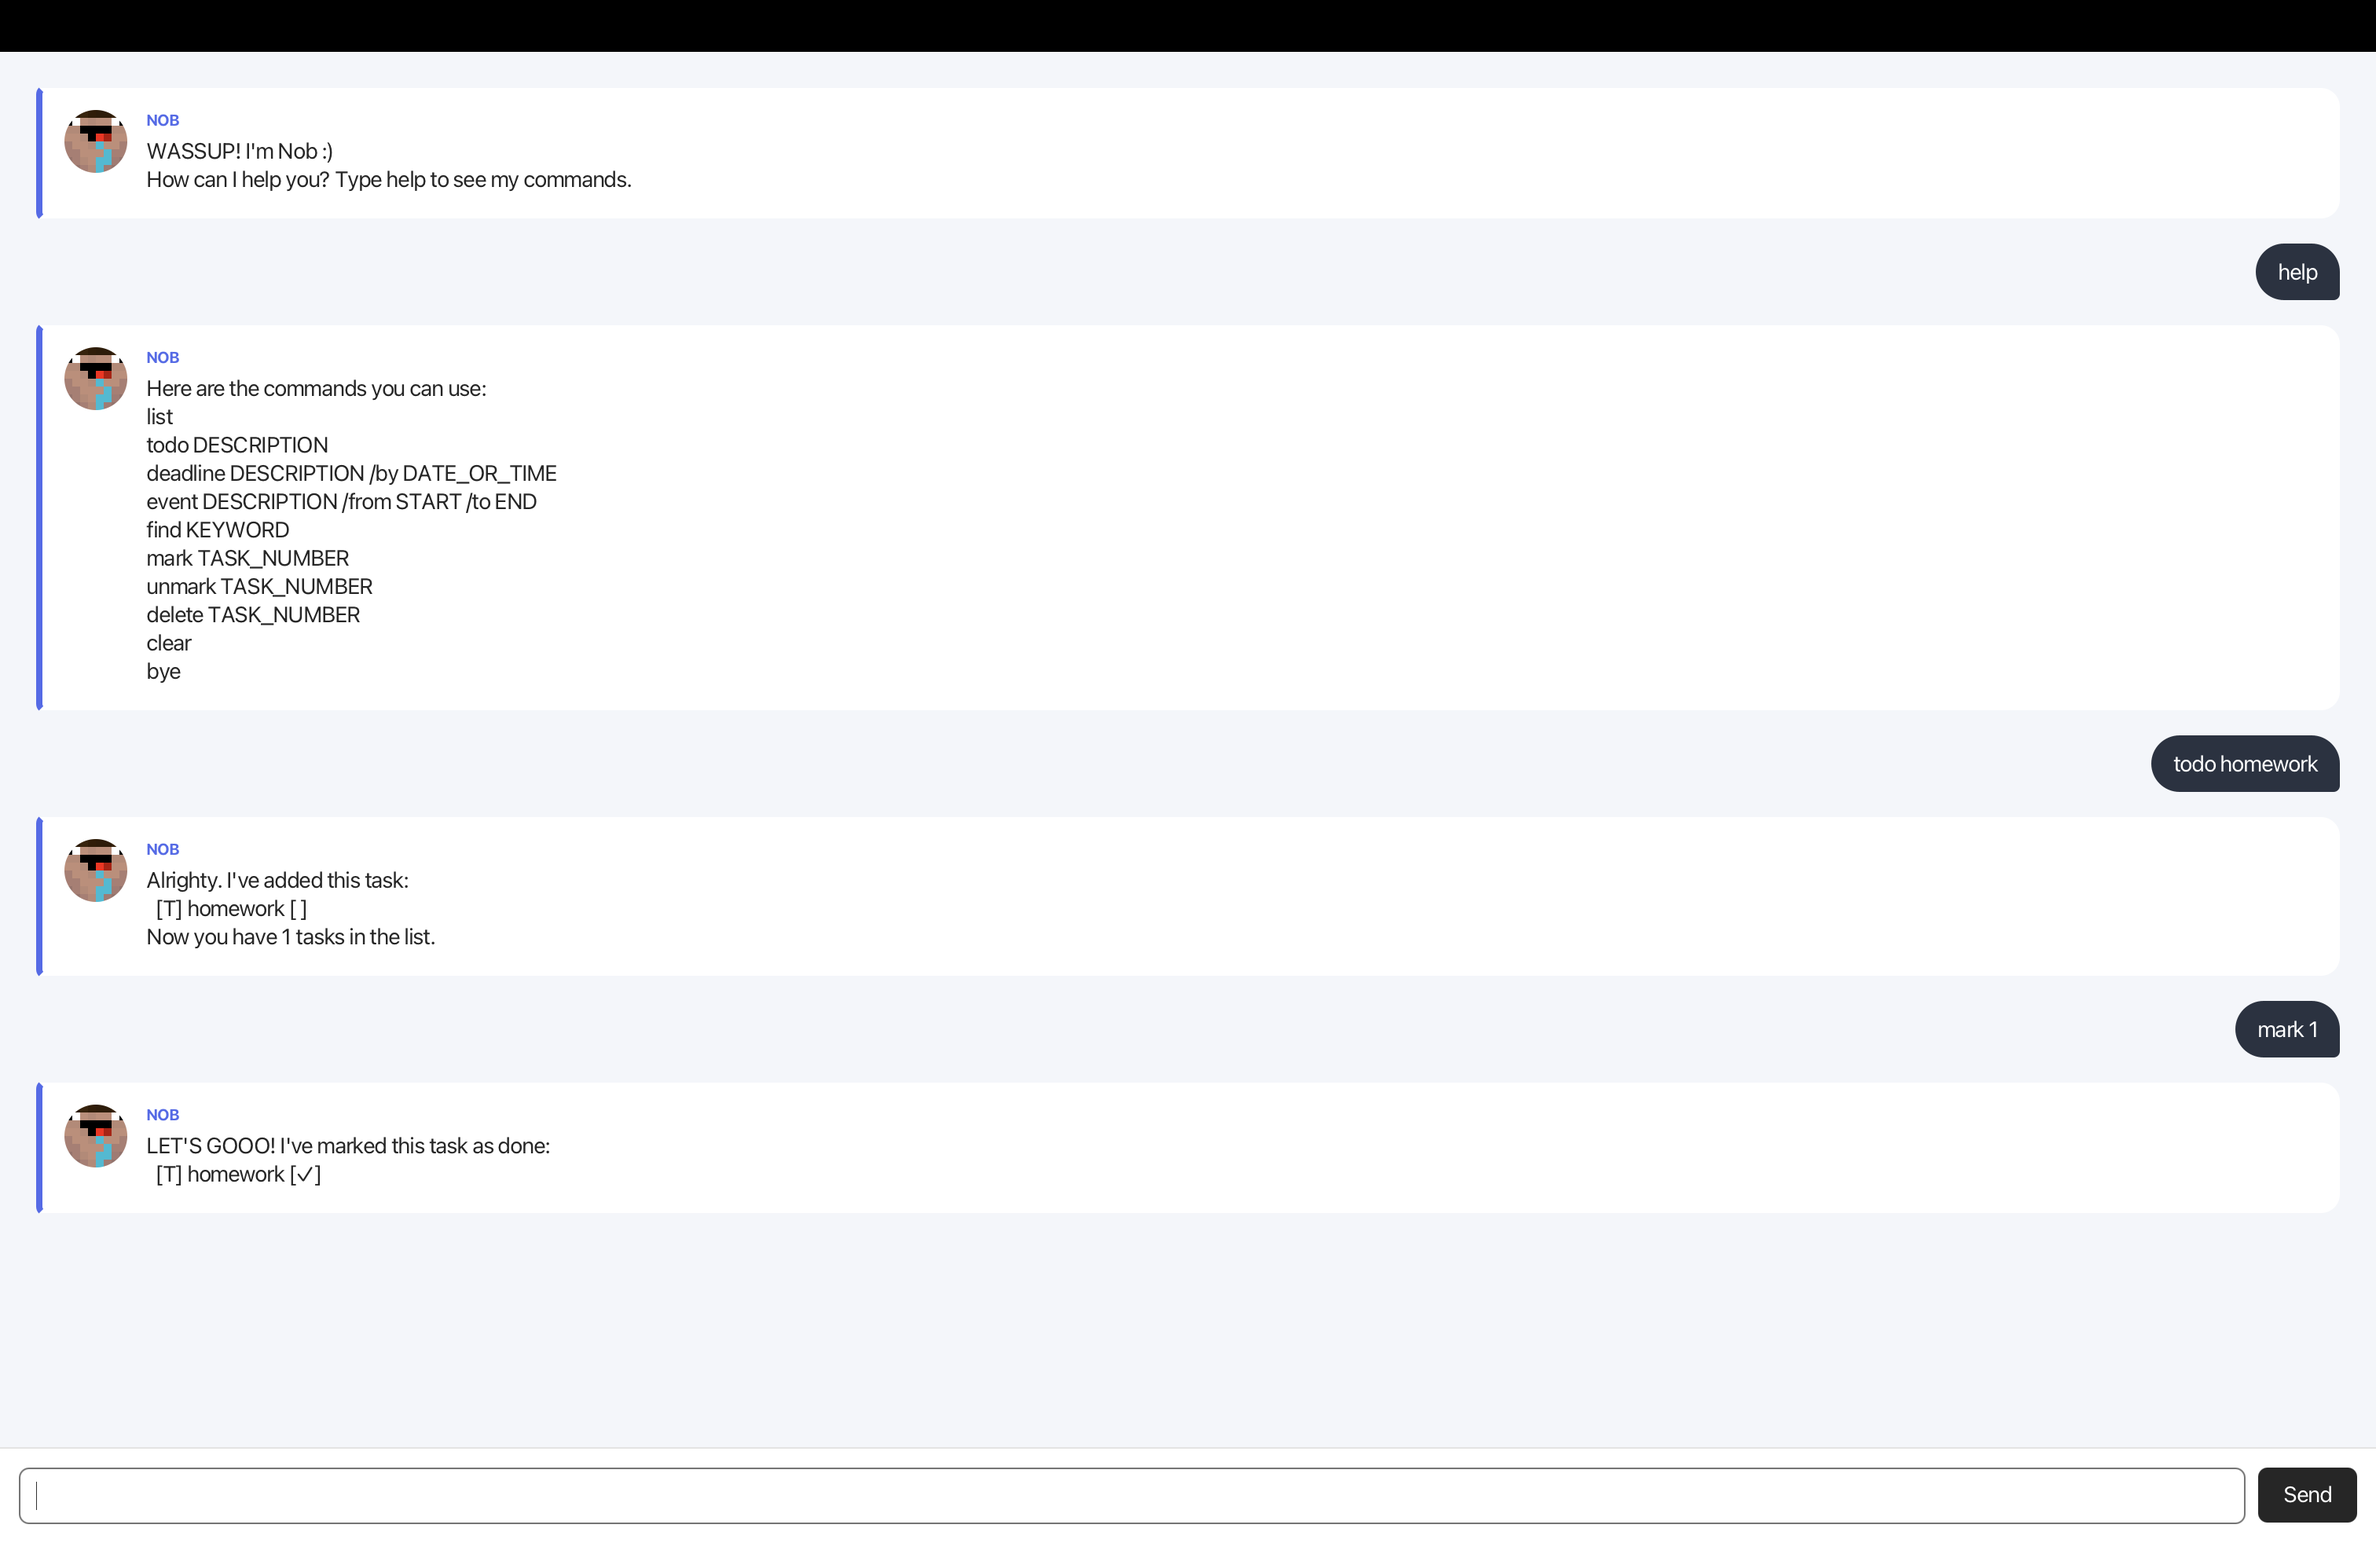
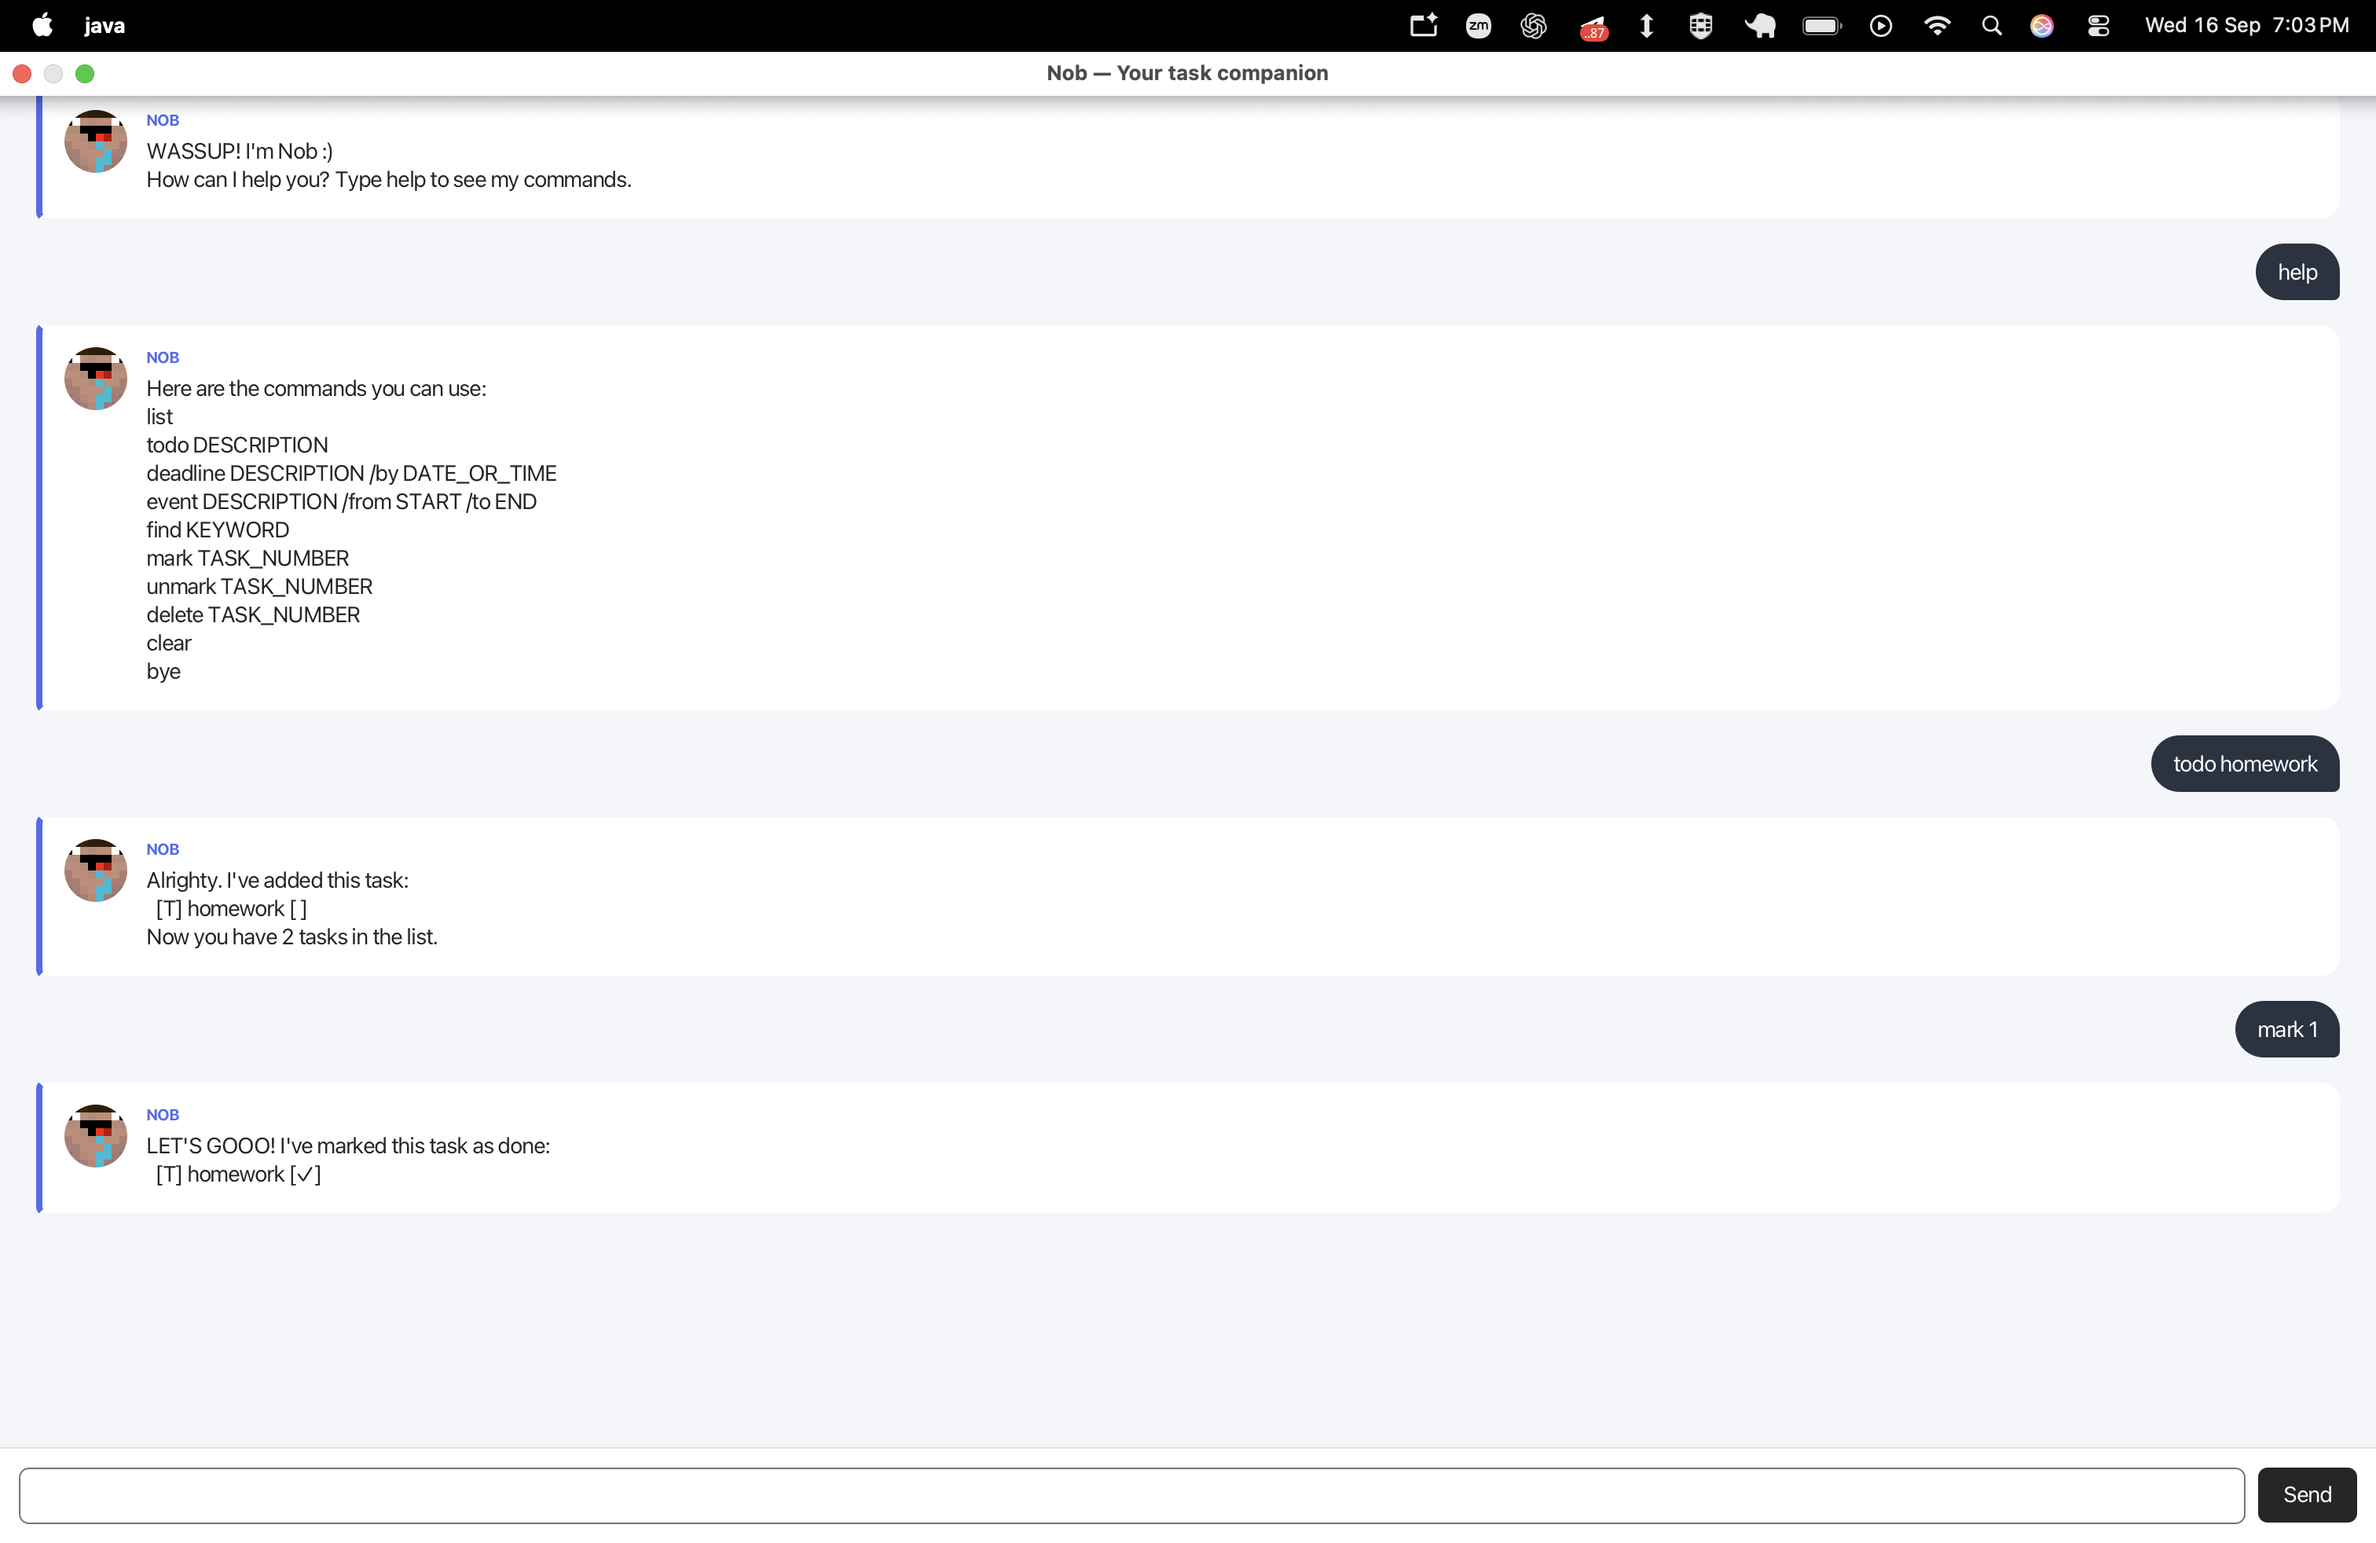
Complete Nob user guide
Replace the guide screenshot with the current asymmetric conversation UI and rename the packaged application from duke.jar to nob.jar so the product identity is consistent. Add and record a regression test proving that Nob starts gracefully when its data file is missing.

diff --git a/test/ui-test-plan.md b/test/ui-test-plan.md
@@ -42,6 +42,48 @@ Goodbye! Hope to see you soon mate!
 ____________________________________________________________
 ```
 
+## Test Case: Starts without a data file
+
+- **Aim:** Verify that Nob treats a missing data file as an empty task list instead of failing at startup.
+- **Command**
+
+```sh
+rm -rf data && javac -d out $(find src/main/java -name '*.java' ! -name 'GuiNob.java' ! -name 'Launcher.java' ! -name 'DialogBox.java' ! -name 'MainWindow.java') && printf 'list\nbye\n' | java -cp out nob.Nob
+```
+
+- **Input**
+
+```text
+```
+
+- **Expected output**
+
+```text
+____________________________________________________________
+ _   _       _
+| \ | | ___ | |__
+|  \| |/ _ \| '_ \
+| |\  | (_) | |_) |
+|_| \_|\___/|_.__/
+
+  (•_•)
+  ( •_•)>⌐■-■
+  (⌐■_■)
+
+WASSUP! I'm Nob :)
+How can I help you?
+____________________________________________________________
+
+____________________________________________________________
+Your task list is empty right now. Add a task using the 'todo', 'deadline' or 'event' commands.
+____________________________________________________________
+
+
+____________________________________________________________
+Goodbye! Hope to see you soon mate!
+____________________________________________________________
+```
+
 ## Test Case: Saves tasks after each change
 
 - **Aim:** Verify that adding, marking, and deleting tasks automatically writes the current task list to disk.

diff --git a/docs/README.md b/docs/README.md
@@ -8,11 +8,11 @@ deadlines, and events using short text commands.
 ## Quick start
 
 1. Ensure that Java 25 or later is installed.
-2. Open a terminal in the folder containing `duke.jar`.
+2. Open a terminal in the folder containing `nob.jar`.
 3. Start Nob:
 
    ```sh
-   java -jar duke.jar
+   java -jar nob.jar
    ```
 
    If you are running Nob from its source repository instead, use:
